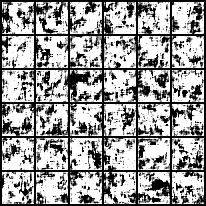
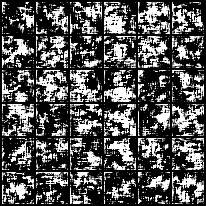
ELR 3

diff --git a/utils.py b/utils.py
@@ -49,6 +49,17 @@ class Noise(object):
     def __call__(self, image):
         return image - torch.randn(image.size()) * self.std + self.mean
 
+class AddGaussianNoise(object):
+    def __init__(self, mean=0., std=1.):
+        self.std = std
+        self.mean = mean
+        
+    def __call__(self, tensor):
+        return tensor + torch.randn(tensor.size()) * self.std + self.mean
+    
+    def __repr__(self):
+        return self.__class__.__name__ + '(mean={0}, std={1})'.format(self.mean, self.std)
+
 class DeviceDataLoader:
     def __init__(self, dl, device):
         self.DataLoader = dl
@@ -66,7 +77,7 @@ def mnist_get_data(device, batch_size, N=1000):
     mnist = MNIST(root='data', 
                 train=True, 
                 download=True,
-                transform=Compose([Pad(2), ToTensor(), Normalize(mean=(0.5,), std=(0.5,))]))
+                transform=Compose([Pad(2), ToTensor(), AddGaussianNoise(0., 1.)]))
 
     mnist, _ = torch.utils.data.random_split(mnist, [N, len(mnist)-N])  
     data_loader = DeviceDataLoader(DataLoader(mnist, batch_size, shuffle=True, drop_last=True), device)
